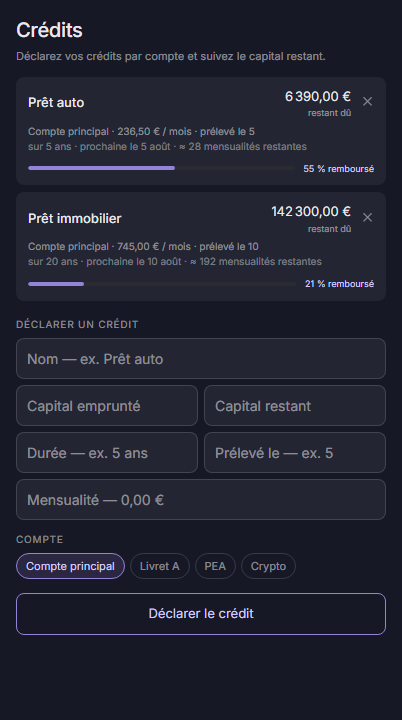
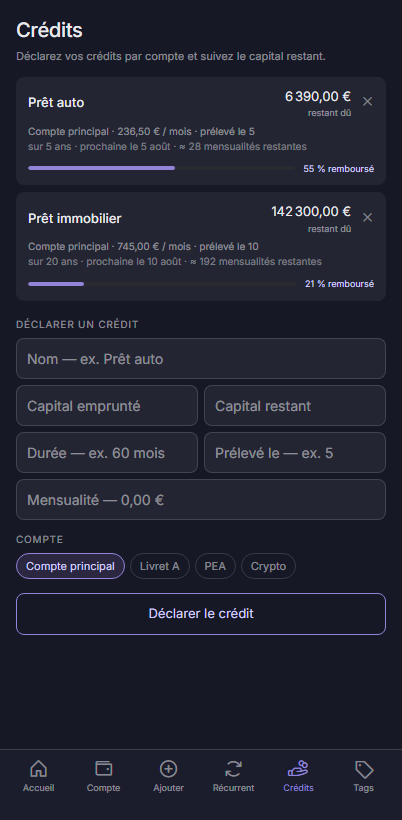
Saisit la durée d'un crédit en mois
La durée était saisie en années alors qu'elle est conservée en mois : un prêt de
dix-huit mois n'était pas déclarable. Le champ passe donc en mois, plafonné à 600.

L'affichage garde la lecture en clair : 60 mois se relisent « sur 5 ans »,
18 mois « sur 1 an et 6 mois ». Rien à migrer, la colonne était déjà en mois.

diff --git a/resources/js/pages/Credits/Index.vue b/resources/js/pages/Credits/Index.vue
@@ -24,7 +24,7 @@ const form = useForm({
     borrowed: '',
     remaining: '',
     monthly: '',
-    term_years: '',
+    term_months: '',
     payment_day: '',
 });
 
@@ -53,7 +53,7 @@ function scheduleLabel(credit) {
 function declareCredit() {
     form.post(routes.credits, {
         preserveScroll: true,
-        onSuccess: () => form.reset('name', 'borrowed', 'remaining', 'monthly', 'term_years', 'payment_day'),
+        onSuccess: () => form.reset('name', 'borrowed', 'remaining', 'monthly', 'term_months', 'payment_day'),
     });
 }
 
@@ -181,19 +181,19 @@ function deleteCredit(credit) {
                     </FormField>
 
                     <FormField
-                        label="Durée (années)"
-                        :error="form.errors.term_years"
+                        label="Durée (mois)"
+                        :error="form.errors.term_months"
                         label-desktop-only
                         class="order-4 lg:order-5"
                     >
                         <input
-                            v-model="form.term_years"
+                            v-model="form.term_months"
                             type="number"
                             inputmode="numeric"
                             min="1"
-                            max="50"
+                            max="600"
                             class="field lg:bg-page!"
-                            placeholder="Durée — ex. 5 ans"
+                            placeholder="Durée — ex. 60 mois"
                         />
                     </FormField>
 

diff --git a/tests/Feature/CreditTest.php b/tests/Feature/CreditTest.php
@@ -56,7 +56,7 @@ class CreditTest extends TestCase
                 'borrowed' => '180 000',
                 'remaining' => '142 300,00',
                 'monthly' => '745,00 €',
-                'term_years' => 20,
+                'term_months' => 240,
                 'payment_day' => 10,
             ])
             ->assertRedirect();
@@ -81,7 +81,7 @@ class CreditTest extends TestCase
                 'name' => 'Prêt travaux',
                 'remaining' => '9 000',
                 'monthly' => '150',
-                'term_years' => 5,
+                'term_months' => 60,
                 'payment_day' => 5,
             ])
             ->assertRedirect();
@@ -104,7 +104,7 @@ class CreditTest extends TestCase
                 'name' => 'Prêt étudiant',
                 'borrowed' => '12 000',
                 'monthly' => '100',
-                'term_years' => 10,
+                'term_months' => 120,
                 'payment_day' => 15,
             ])
             ->assertRedirect();
@@ -244,14 +244,13 @@ class CreditTest extends TestCase
                 'borrowed' => '180 000',
                 'remaining' => '142 300',
                 'monthly' => '745',
-                'term_years' => 20,
+                'term_months' => 240,
                 'payment_day' => 10,
             ])
             ->assertRedirect();
 
         $credit = $account->credits()->sole();
 
-        // La durée est saisie en années et conservée en mois.
         $this->assertSame(240, $credit->term_months);
         $this->assertSame(10, $credit->payment_day);
         $this->assertSame('20 ans', $credit->term_label);
@@ -269,7 +268,7 @@ class CreditTest extends TestCase
                 'borrowed' => '10 000',
                 'monthly' => '150',
             ])
-            ->assertSessionHasErrors(['term_years', 'payment_day']);
+            ->assertSessionHasErrors(['term_months', 'payment_day']);
 
         $this->assertSame(0, $account->credits()->count());
     }
@@ -285,10 +284,10 @@ class CreditTest extends TestCase
                 'name' => 'Prêt',
                 'borrowed' => '10 000',
                 'monthly' => '150',
-                'term_years' => 80,
+                'term_months' => 700,
                 'payment_day' => 32,
             ])
-            ->assertSessionHasErrors(['term_years', 'payment_day']);
+            ->assertSessionHasErrors(['term_months', 'payment_day']);
     }
 
     #[DataProvider('terms')]
@@ -361,5 +360,27 @@ class CreditTest extends TestCase
                 ->where('credits.0.payment_day', null)
                 ->where('credits.0.next_payment_label', null)
                 ->etc());
+    }
+
+    public function test_a_term_that_is_not_a_whole_number_of_years_can_be_declared(): void
+    {
+        $user = User::factory()->create();
+        $account = Account::factory()->for($user)->create();
+
+        $this->actingAs($user)
+            ->post('/credits', [
+                'account_id' => $account->id,
+                'name' => 'Prêt électroménager',
+                'borrowed' => '1 800',
+                'monthly' => '100',
+                'term_months' => 18,
+                'payment_day' => 12,
+            ])
+            ->assertRedirect();
+
+        $credit = $account->credits()->sole();
+
+        $this->assertSame(18, $credit->term_months);
+        $this->assertSame('1 an et 6 mois', $credit->term_label);
     }
 }

diff --git a/app/Http/Requests/StoreCreditRequest.php b/app/Http/Requests/StoreCreditRequest.php
@@ -10,6 +10,9 @@ use Illuminate\Validation\Validator;
 
 class StoreCreditRequest extends FormRequest
 {
+    /** Cinquante ans, la durée d'un prêt immobilier très long. */
+    private const MAXIMUM_TERM_MONTHS = 600;
+
     /**
      * @return array<string, mixed>
      */
@@ -28,7 +31,7 @@ class StoreCreditRequest extends FormRequest
              */
             'borrowed' => ['required_without:remaining', 'nullable', new ValidAmount(minimumCents: 1)],
             'remaining' => ['required_without:borrowed', 'nullable', new ValidAmount(minimumCents: 1)],
-            'term_years' => ['required', 'integer', 'min:1', 'max:50'],
+            'term_months' => ['required', 'integer', 'min:1', 'max:'.self::MAXIMUM_TERM_MONTHS],
             'payment_day' => ['required', 'integer', 'min:1', 'max:31'],
         ];
     }
@@ -45,21 +48,13 @@ class StoreCreditRequest extends FormRequest
             'monthly.required' => 'Saisissez la mensualité.',
             'borrowed.required_without' => 'Saisissez le capital emprunté ou le capital restant.',
             'remaining.required_without' => 'Saisissez le capital restant ou le capital emprunté.',
-            'term_years.required' => 'Indiquez la durée du crédit, en années.',
-            'term_years.integer' => 'La durée doit être un nombre entier d’années.',
-            'term_years.max' => 'La durée ne peut pas dépasser 50 ans.',
+            'term_months.required' => 'Indiquez la durée du crédit, en mois.',
+            'term_months.integer' => 'La durée doit être un nombre entier de mois.',
+            'term_months.max' => 'La durée ne peut pas dépasser '.self::MAXIMUM_TERM_MONTHS.' mois.',
             'payment_day.required' => 'Indiquez le jour du mois où vous êtes prélevé.',
             'payment_day.min' => 'Le jour de prélèvement va du 1 au 31.',
             'payment_day.max' => 'Le jour de prélèvement va du 1 au 31.',
         ];
-    }
-
-    /**
-     * La durée est saisie en années et conservée en mois.
-     */
-    public function termMonths(): int
-    {
-        return $this->integer('term_years') * 12;
     }
 
     public function withValidator(Validator $validator): void

diff --git a/app/Http/Controllers/CreditController.php b/app/Http/Controllers/CreditController.php
@@ -37,7 +37,7 @@ class CreditController extends Controller
             'borrowed_cents' => $request->borrowedCents(),
             'remaining_cents' => $request->remainingCents(),
             'monthly_cents' => $request->monthlyCents(),
-            'term_months' => $request->termMonths(),
+            'term_months' => $request->integer('term_months'),
             'payment_day' => $request->integer('payment_day'),
         ]);
 

diff --git a/README.md b/README.md
@@ -93,12 +93,13 @@ pour qu'un capital saisi de travers ne produise pas de jauge absurde), la procha
 prélèvement au 31 tombe le 28 février) et le nombre de mensualités restantes au rythme
 actuel, qui reste une estimation puisqu'elle ignore les intérêts encore à courir.
 
-La durée est saisie en années et conservée en mois : un prêt de dix-huit mois est déjà
-représentable en base, il ne manque qu'un champ à l'écran.
+La durée se saisit et se conserve en mois — un prêt de dix-huit mois se déclare donc
+directement — mais s'affiche en clair : 60 mois se relisent « sur 5 ans », 18 mois
+« sur 1 an et 6 mois ». Plafond à 600 mois.
 
 À la déclaration, un seul des deux capitaux suffit — l'autre s'en déduit, et le crédit
 démarre alors comme s'il n'avait rien remboursé. Un capital restant supérieur au capital
-emprunté est refusé, comme une durée au-delà de 50 ans ou un jour hors du 1–31. Les crédits
+emprunté est refusé, comme une durée hors du 1–600 ou un jour hors du 1–31. Les crédits
 d'un compte apparaissent aussi sur son écran de détail.
 
 Un crédit reste déclaratif : sa mensualité ne crée pas d'opération et ne bouge donc pas le
@@ -162,7 +163,7 @@ hors ligne aux données demanderait une persistance locale chiffrée, qui n'est 
 ./vendor/bin/sail artisan test
 ```
 
-113 tests couvrent l'authentification, le verrouillage, le pointage, la création de comptes,
+114 tests couvrent l'authentification, le verrouillage, le pointage, la création de comptes,
 d'opérations, de tags et de crédits, les autorisations entre profils, la génération des
 récurrentes, les échéances de crédit, le calcul de chaque widget et l'analyse des montants
 saisis.
